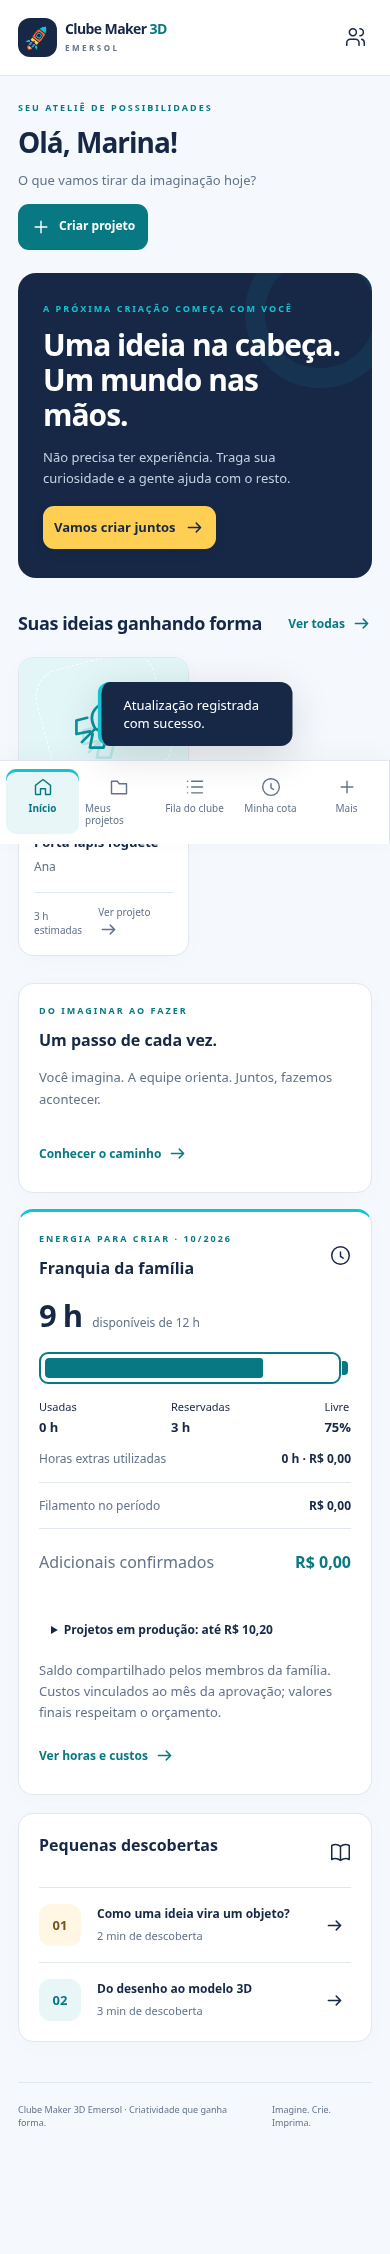
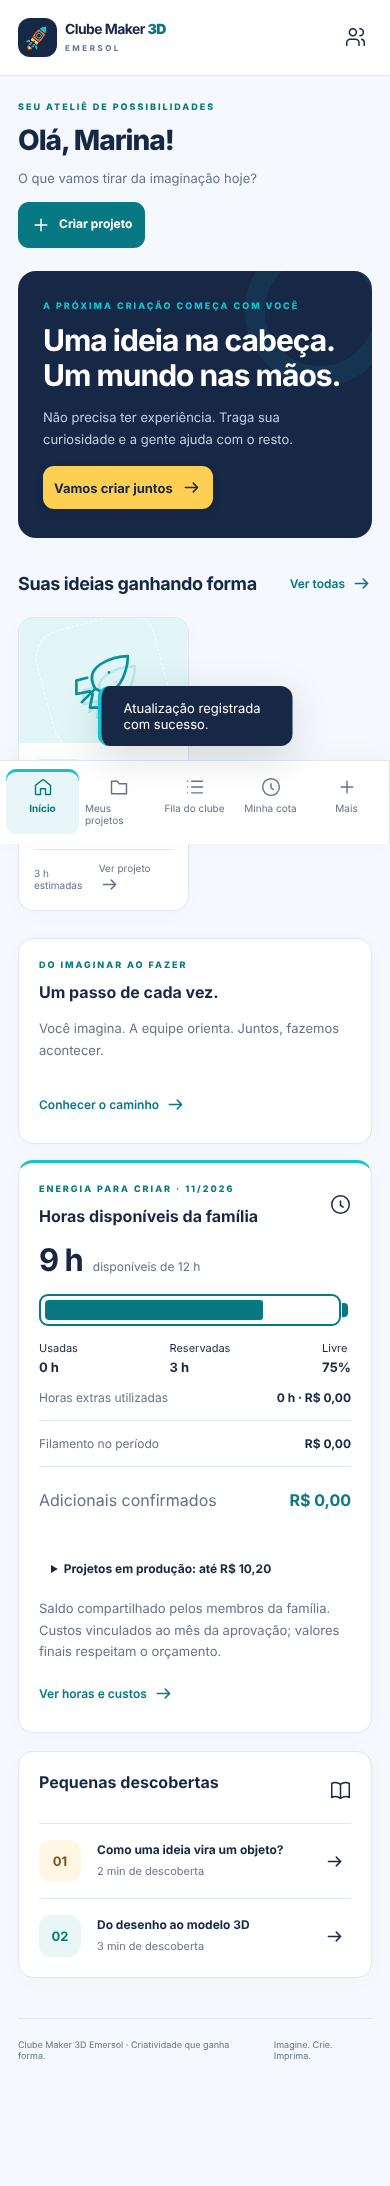
Reduz idas ao banco e melhora cache para acelerar o portal
O app (França) e o banco (São Paulo) estão a ~150 ms por ida e volta,
então cada consulta conta.

- Saldo de horas em uma consulta (4 -> 1) via snapshot.
- Detalhe do projeto: mensagens, eventos e arquivos numa consulta.
- Visão da automação: leitura em lote e constante, sem trava global;
  seed só quando necessário (29 -> 6 com 5 famílias).
- Pool mantém conexão quente com o banco remoto.
- Navegador busca projeto e painel em paralelo.
- Assets versionados no index.html com cache imutável; ETag e
  compressão pré-calculados.
- Relatório em docs/AUDITORIA_DESEMPENHO.md.

Claude-Session: https://claude.ai/code/session_019GKCqsNGn1YsAwNFyq7dwA

diff --git a/public/app.js b/public/app.js
@@ -41,7 +41,7 @@ if(w.step===3)content=`<h2>Sua ideia está pronta para sair do papel.</h2><p cla
 return `<div class="wizard">${header('DA IMAGINAÇÃO PARA O MUNDO','Vamos criar algo novo?','Uma etapa de cada vez, do seu jeito.')}<div class="steps">${['Começar','Sua ideia','Detalhes','Revisar'].map((s,i)=>`<div class="step ${i===w.step?'current':''}" ${i===w.step?'aria-current="step"':''}><span>${i+1}</span>${s}</div>`).join('')}</div><form id="wizard-form" class="card">${content}<div class="error" role="alert"></div><div class="wizard-controls">${w.step?btn(icon('back')+' Voltar','wizard-back','secondary'):btn('Sair','wizard-exit','secondary')}<div class="right">${w.step>0?btn('Salvar rascunho','draft','secondary'):''}${w.step===3?'<button type="submit" class="btn">Enviar para avaliação '+icon('arrow')+'</button>':'<button type="submit" class="btn">Continuar '+icon('arrow')+'</button>'}</div></div></form></div>`;}
 async function saveWizard(submit){captureWizard();const w=state.wizard;if(!w.name.trim()||!w.description.trim()||!w.participant.trim())throw new Error('Preencha nome, descrição e participante antes de salvar.');if(submit&&w.kind==='file'&&!w.file)throw new Error('Adicione um arquivo STL ou 3MF.');if(w.file?.size>10*1024*1024)throw new Error('O arquivo deve ter no máximo 10 MB.');const result=await api('/projects',w);if(w.file){try{await upload(result.id,w.file);}catch(e){state.wizard=null;await openProject(result.id);throw new Error('O rascunho foi salvo, mas o arquivo não foi enviado: '+e.message);}}if(submit)await api(`/projects/${result.id}/submit`,{});state.wizard=null;toast(submit?'Ideia enviada! A equipe vai avaliar seu projeto.':'Rascunho salvo. Continue quando quiser.');await openProject(result.id);}
 async function upload(id,file){if(file.size>10*1024*1024)throw new Error('O arquivo deve ter no máximo 10 MB.');const encoded=await new Promise((resolve,reject)=>{const reader=new FileReader();reader.onload=()=>resolve(reader.result.split(',')[1]);reader.onerror=()=>reject(new Error('Não foi possível ler o arquivo.'));reader.readAsDataURL(file);});return api(`/projects/${id}/file`,{name:file.name,data:encoded});}
-async function openProject(id){state.project=await api('/projects/'+id);state.page='project';state.data=await api('/dashboard');render();window.scrollTo({top:0,behavior:'instant'});}
+async function openProject(id){const [project,data]=await Promise.all([api('/projects/'+id),api('/dashboard')]);state.project=project;state.page='project';state.data=data;render();window.scrollTo({top:0,behavior:'instant'});}
 function projectPage(){const p=state.project,admin=operatorUser(),guardian=state.user.role==='guardian'&&p.family_id===state.user.family_id;if(!p)return '';let actions='';if((admin||guardian||(!teamUser()&&p.family_id===state.user.family_id))&&['draft','question','review'].includes(p.status))actions+=btn('Editar ideia','edit-dialog','secondary');if((admin||guardian||(!teamUser()&&p.family_id===state.user.family_id))&&['draft','question'].includes(p.status))actions+=btn(p.status==='draft'?'Enviar para avaliação':'Enviar de volta para avaliação','submit');if(guardian&&p.status==='approval')actions+=btn('Conferir e aprovar orçamento','approve-dialog')+btn('Pedir alteração','revise-dialog','secondary');if(admin&&['review','question','approval','failed'].includes(p.status))actions+=btn('Preparar orçamento','quote-dialog')+(['review','approval'].includes(p.status)?btn('Pedir informação','question-dialog','secondary'):'');if(admin&&p.status==='queued')actions+=btn('Conferir e iniciar impressão','start-dialog');if(admin&&p.status==='printing')actions+=btn('Concluir impressão','finish-dialog')+btn('Registrar falha','fail-dialog','secondary');if((admin||guardian)&&p.status==='ready')actions+=btn('Confirmar retirada','collect-dialog');if(financeUser()&&['ready','completed'].includes(p.status)&&!p.paid&&p.charge>0)actions+=btn('Registrar pagamento','paid-dialog','secondary');if((admin||guardian)&&['draft','review','question','approval','queued'].includes(p.status))actions+=btn('Cancelar pedido','cancel-dialog','secondary');
 const q=p.quote,finished=['ready','completed'].includes(p.status),materialCost=finished?Math.round(Math.min(p.actual_grams??p.grams,p.grams)*p.material_rate/1000):q?.materialCost,extraCost=finished?Math.round(Math.max(0,Math.min(p.actual_minutes??p.minutes,p.minutes)-p.used)*p.extra_rate/60):Math.round((p.minutes-p.included)*p.extra_rate/60);return `<button class="text-btn" data-nav="projects">${icon('back')} Voltar aos projetos</button>${header('PROJETO #'+String(p.id).padStart(3,'0'),esc(p.name),esc(explanations[p.status]))}<div class="row section-head">${badge(p.status)}<small>Uma criação de ${esc(p.participant)}</small></div><div class="row section-head">${actions}</div><div class="grid two"><div class="stack"><div class="card"><h2>A ideia</h2><p class="preserve">${esc(p.description)}</p><div class="summary"><div><span>Tamanho</span><strong>${esc(p.size)}</strong></div><div><span>Preferência</span><strong>${esc(p.color)} · ${p.quantity} peça(s)</strong></div></div>${p.files.map(f=>`<a class="file" href="/api/files/${f.id}" download>${icon('file')}${esc(f.name)} <small>(${(f.size/1024).toFixed(0)} KB)</small></a>`).join('')}${['draft','question','review'].includes(p.status)?`<form id="file-form" class="stack section"><label>Adicionar arquivo<input name="attachment" type="file" accept="${p.kind==='file'?'.stl,.3mf':'.stl,.3mf,.png,.jpg,.jpeg'}" required><span class="field-help">Até cinco arquivos de 10 MB. Envie apenas modelos e imagens de referência.</span></label><button class="btn secondary" type="submit">Enviar arquivo</button></form>`:''}</div>${q?`<div class="card"><div class="section-head"><h2>${['ready','completed'].includes(p.status)?'Consumo final':'Orçamento do projeto'}</h2>${icon('clock')}</div><p class="preserve">${esc(p.quote_note)}</p><div class="summary"><div><span>Tempo estimado total</span><strong>${hours(p.minutes)}</strong></div><div><span>Material estimado total</span><strong>${p.grams} g de ${esc(p.material)}</strong></div><div><span>${p.status==='approval'?'Uso previsto da cota':'Horas da cota reservadas na aprovação'}</span><strong>${hours(p.status==='approval'?q.included:p.included)}</strong></div><div><span>Material (${money(p.material_rate)}/kg)</span><strong>${money(materialCost)}</strong></div><div><span>Horas extras</span><strong>${money(p.status==='approval'?q.extraCost:extraCost)}</strong></div><div class="total"><span>${['ready','completed'].includes(p.status)?'Valor final adicional':'Máximo adicional'}</span><strong>${money(p.status==='approval'?q.total:p.charge)}</strong></div>${['ready','completed'].includes(p.status)?`<div><span>Consumo real registrado</span><strong>${hours(p.actual_minutes)} · ${p.actual_grams} g</strong></div><div><span>Débito na cota</span><strong>${hours(p.used)}</strong></div><div><span>Pagamento</span><strong>${p.paid?'Registrado':p.charge?'A combinar com a equipe':'Sem valor adicional'}</strong></div>`:''}</div><small>${p.status==='approval'?'O saldo é conferido novamente ao aprovar. Não haverá impressão sem aprovação.':'O custo é limitado ao valor aprovado. A parcela não utilizada da reserva é liberada.'}</small></div>`:''}<div class="card"><h2>Conversa com a equipe</h2><p>Uma dúvida ou uma ideia nova? Conte por aqui.</p>${p.messages.length?p.messages.map(m=>`<div class="message ${(m.role==='admin'||m.is_staff)?'team':''}"><strong>${esc(m.name)} ${(m.role==='admin'||m.is_staff)?'· Equipe':''}</strong><small>${date(m.created)}</small><p>${esc(m.body)}</p></div>`).join(''):'<p class="muted">As orientações sobre este projeto aparecerão aqui.</p>'}<form id="message-form" class="stack"><label>Sua mensagem<textarea name="body" required maxlength="3000" placeholder="Escreva sua dúvida ou orientação…"></textarea></label><button class="btn secondary" type="submit">Enviar mensagem ${icon('arrow')}</button></form></div></div><aside><div class="card"><h2>O caminho da sua criação</h2><ol class="timeline">${p.events.map(e=>`<li>${esc(e.text)}<small>${new Date(e.created).toLocaleString('pt-BR')}</small></li>`).join('')}</ol></div><div class="notice section">${icon('help')}<div><h3>Aprender também é experimentar</h3><p>A impressão é feita por um responsável. Você acompanha, pergunta e aprende em cada etapa.</p></div></div></aside></div>`;}
 function queuePage(){const q=state.data.queue;return `${header('CADA IDEIA TEM SUA VEZ',teamUser()?'Produção do clube':'Fila do clube','Acompanhe o caminho das criações, uma camada de cada vez.')}<div class="notice">${icon('clock')}<div><h3>${q.some(p=>p.status==='printing')?'Uma criação está sendo impressa':'Nenhuma impressão em andamento'}</h3><p>Atualização manual pela equipe. O tempo é uma estimativa de impressão, não uma promessa de entrega.</p></div></div><div class="card section">${q.length?q.map(p=>`<div class="queue-item"><span class="queue-index">${p.position}</span><div><h3>${p.name?esc(p.name):'Pedido #'+String(p.id).padStart(3,'0')}</h3><p>${hours(p.minutes)} estimadas ${p.own?'· Da sua família':''}</p></div>${badge(p.status)}${p.own||teamUser()?`<button data-project="${p.id}" aria-label="Abrir projeto">${icon('arrow')}</button>`:''}</div>`).join(''):empty('A próxima criação pode ser a sua','Quando um orçamento for aprovado, o projeto aparecerá nesta fila.')}</div><div class="card section"><h2>Uma fila justa e fácil de entender</h2><p>Os projetos entram por ordem de aprovação do orçamento. Pausas de manutenção podem alterar a previsão, mas a ordem permanece. Informações de outras famílias ficam protegidas.</p><button class="text-btn" data-action="rules">Ver regras de participação ${icon('arrow')}</button></div>`;}

diff --git a/docs/AUDITORIA_DESEMPENHO.md b/docs/AUDITORIA_DESEMPENHO.md
@@ -1,0 +1,123 @@
+# Auditoria de desempenho — 01/11/2026
+
+Objetivo: descobrir por que o portal parece lento e o que fazer, em ordem de impacto.
+
+## Resumo
+
+O código é leve: ~190 KB de front-end sem bibliotecas, tabelas pequenas e consultas
+indexadas. O tempo se perde **na distância**:
+
+| Peça | Onde está |
+| --- | --- |
+| Famílias e equipe | Itumbiara–GO, Brasil |
+| Aplicação (VPS Contabo `185.215.180.60`) | Lauterbourg, **França** |
+| Banco (Supabase `hzsuckglbihyraaotzba`, session pooler) | **São Paulo** (`sa-east-1`) |
+
+Toda tela faz o caminho Brasil → França → São Paulo (várias vezes) → França → Brasil.
+Medido de fora em 01/11/2026, com a conexão já aberta:
+
+| Requisição | Tempo até o 1º byte | Idas ao banco |
+| --- | --- | --- |
+| `/favicon.svg` (sem banco) | ~0,21 s | 0 |
+| `/api/session` sem login | ~0,58 s | 3 |
+| `/healthz` | ~0,80 s | 3 |
+
+Cada ida e volta França ↔ São Paulo custa **~0,12–0,2 s**. Por isso o número de
+idas ao banco por tela é o que define a velocidade.
+
+## Idas ao banco por tela (medidas com contador, Postgres embutido)
+
+| Tela / ação | Antes | Depois desta revisão |
+| --- | --- | --- |
+| Abrir projeto `GET /api/projects/:id` | 11 | **6** |
+| Aprovar orçamento | 16 | **10** |
+| Benefícios da família | 9 | **6** |
+| Cobrança/WhatsApp (equipe, 5 famílias) | 29, **+4 por família** | **6, fixo** |
+| Painel `/api/dashboard` | 4 | 4 (já otimizado) |
+| Sessão, financeiro, estoque, publicações | 4–6 | sem mudança |
+
+Com ~0,15 s por ida, abrir um projeto passa de ~1,7 s para ~0,9 s de banco e a
+tela de cobrança de ~4,4 s (crescendo com o clube) para ~0,9 s.
+
+## O que foi alterado nesta revisão
+
+1. **Saldo de horas em uma consulta** (`quota.mjs`): família, projetos, bônus e
+   reservas vêm juntos via `db.snapshot` (4 → 1). Beneficia orçamento, aprovação e
+   benefícios. Cálculo (`computeQuota`) intacto.
+2. **Detalhe do projeto** (`server.mjs`): mensagens, eventos e arquivos numa
+   consulta (3 → 1).
+3. **Visão da automação** (`messaging/automation.mjs`): era uma transação de
+   escrita (com a trava global) que repetia o *seed* e 2 consultas **para cada
+   família**. Agora é leitura em lote, constante; o *seed* só roda quando há
+   família sem configuração ou responsável a preencher.
+4. **Conexões quentes com o banco** (`db.mjs`): a conexão era fechada após 30 s
+   ociosa e cada reabertura TLS para São Paulo custa vários round trips. Agora
+   `min: 1`, ociosidade de 5 min (`DATABASE_IDLE_MS`), `keepAlive` e renovação a
+   cada 30 min.
+5. **Projeto + painel em paralelo** (`public/app.js`): `openProject` buscava um
+   depois do outro; após cada ação no projeto economiza uma requisição inteira.
+6. **Cache dos arquivos estáticos** (`server.mjs`): `index.html` aponta para
+   `/app.js?v=<hash>`; com a versão correta o navegador guarda por 1 ano
+   (`immutable`) e não pergunta de novo a cada abertura. Endereços sem versão
+   continuam revalidando, e a verificação de assets do `deploy-release.sh`
+   segue funcionando. ETag pré-calculado e compressão máxima (Brotli 11, gzip 9)
+   feita uma vez na inicialização.
+
+Testes: `npm test` e `npm run test:postgres` 63/63 (2 novos testes);
+`browser-smoke`, `browser-features` e `browser-finance` aprovados (desktop e celular,
+sem erros JS/CSP).
+
+## Recomendações ainda não aplicadas (por impacto)
+
+### 1. Aproximar aplicação e banco — maior ganho, decisão de infraestrutura
+Mover a aplicação para uma VPS em São Paulo (ou o mais próximo possível do banco)
+reduziria cada ida ao banco de ~150 ms para ~1–5 ms e também a distância das
+famílias até o servidor. Estimativa: telas de ~1 s caem para ~0,2–0,3 s. Exige
+nova hospedagem, o que o `AGENTS.md` hoje proíbe sem decisão explícita do
+responsável. Alternativa inversa (banco na Europa) piora para os usuários.
+
+### 2. Tirar envios ao Storage de dentro da trava global
+Toda gravação usa `pg_advisory_xact_lock(733031930)`: só uma escrita por vez no
+clube inteiro. Envio de arquivo de projeto, foto de perfil e mídia de publicação
+sobem para o Supabase Storage **com essa trava aberta** (até 10 MB, até 20 s de
+timeout), bloqueando todas as outras gravações. Sugestão: enviar o arquivo antes
+da transação e, dentro dela, só gravar a linha (removendo o objeto se a gravação
+falhar). Médio prazo: trocar a trava global por travas por família/projeto.
+
+### 3. Cache de fotos de perfil e mídias
+`/api/avatars/:id` e `/api/post-media/:id` respondem com `no-store`, então cada
+exibição baixa de novo do Storage em São Paulo, passando pela França. Como a chave
+do arquivo muda a cada envio, dá para usar `Cache-Control: private, max-age=86400`
+com ETag baseado na chave.
+
+### 4. Automação a cada minuto
+`automation.tick()` roda a cada 60 s e, para **cada família vinculada**, consulta
+a API do Asaas (paginada), além de checar a Evolution e fazer o *seed* sob a trava
+global. As mensagens só são criadas após 9h e são deduplicadas por dia, então
+consultar o Asaas a cada 10–15 min (e só após 9h) teria o mesmo resultado com
+muito menos tráfego e conexões ocupadas (pool de 5).
+
+### 5. Menos recarregamentos completos no navegador
+Após cada ação o front-end recarrega o painel inteiro (`/api/dashboard`), que para
+a equipe traz todos os projetos de todas as famílias. Com 10 famílias está ok;
+ao crescer, paginar projetos concluídos e devolver o item alterado na própria
+resposta da ação.
+
+### 6. Upload em base64 dentro de JSON
+Arquivos STL/3MF de até 10 MB viajam como base64 (+33%) e ficam inteiros na memória
+(contêiner com 384 MB). Envio binário direto (ou URL assinada do Storage) reduz
+tempo e memória.
+
+### 7. Itens menores
+- Banco: Supabase aponta 11 chaves estrangeiras sem índice e 8 índices nunca usados
+  no schema `maker3d`. No tamanho atual não afeta a velocidade; revisar se o clube
+  crescer.
+- Segurança (não desempenho): o Supabase lista políticas RLS de tabelas do schema
+  `public` (outros sistemas do projeto Emersoft) aplicáveis ao papel
+  `maker3d_app` (provavelmente criadas `TO public`). Vale confirmar que
+  `maker3d_app` não tem `GRANT` nessas tabelas.
+
+## Publicação
+
+Esta revisão não foi publicada. Não há migração de banco; é atualização de código
+comum, seguindo `docs/DEPLOY_RAPIDO.md`.
